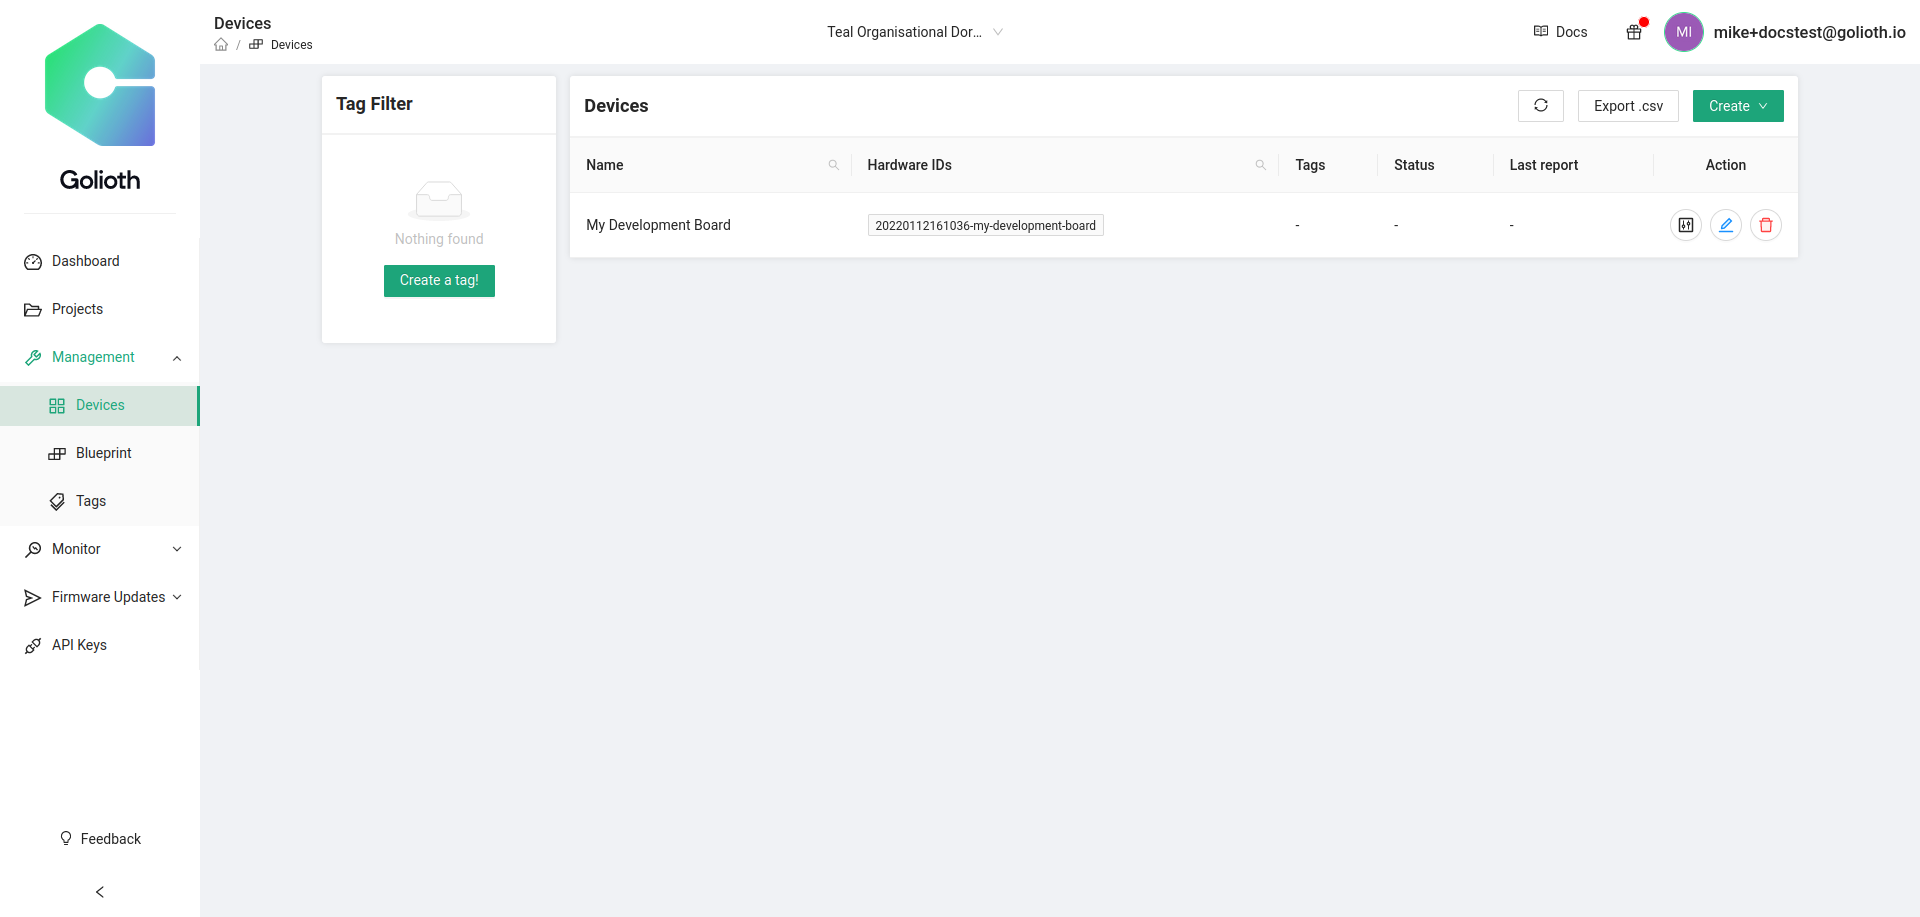
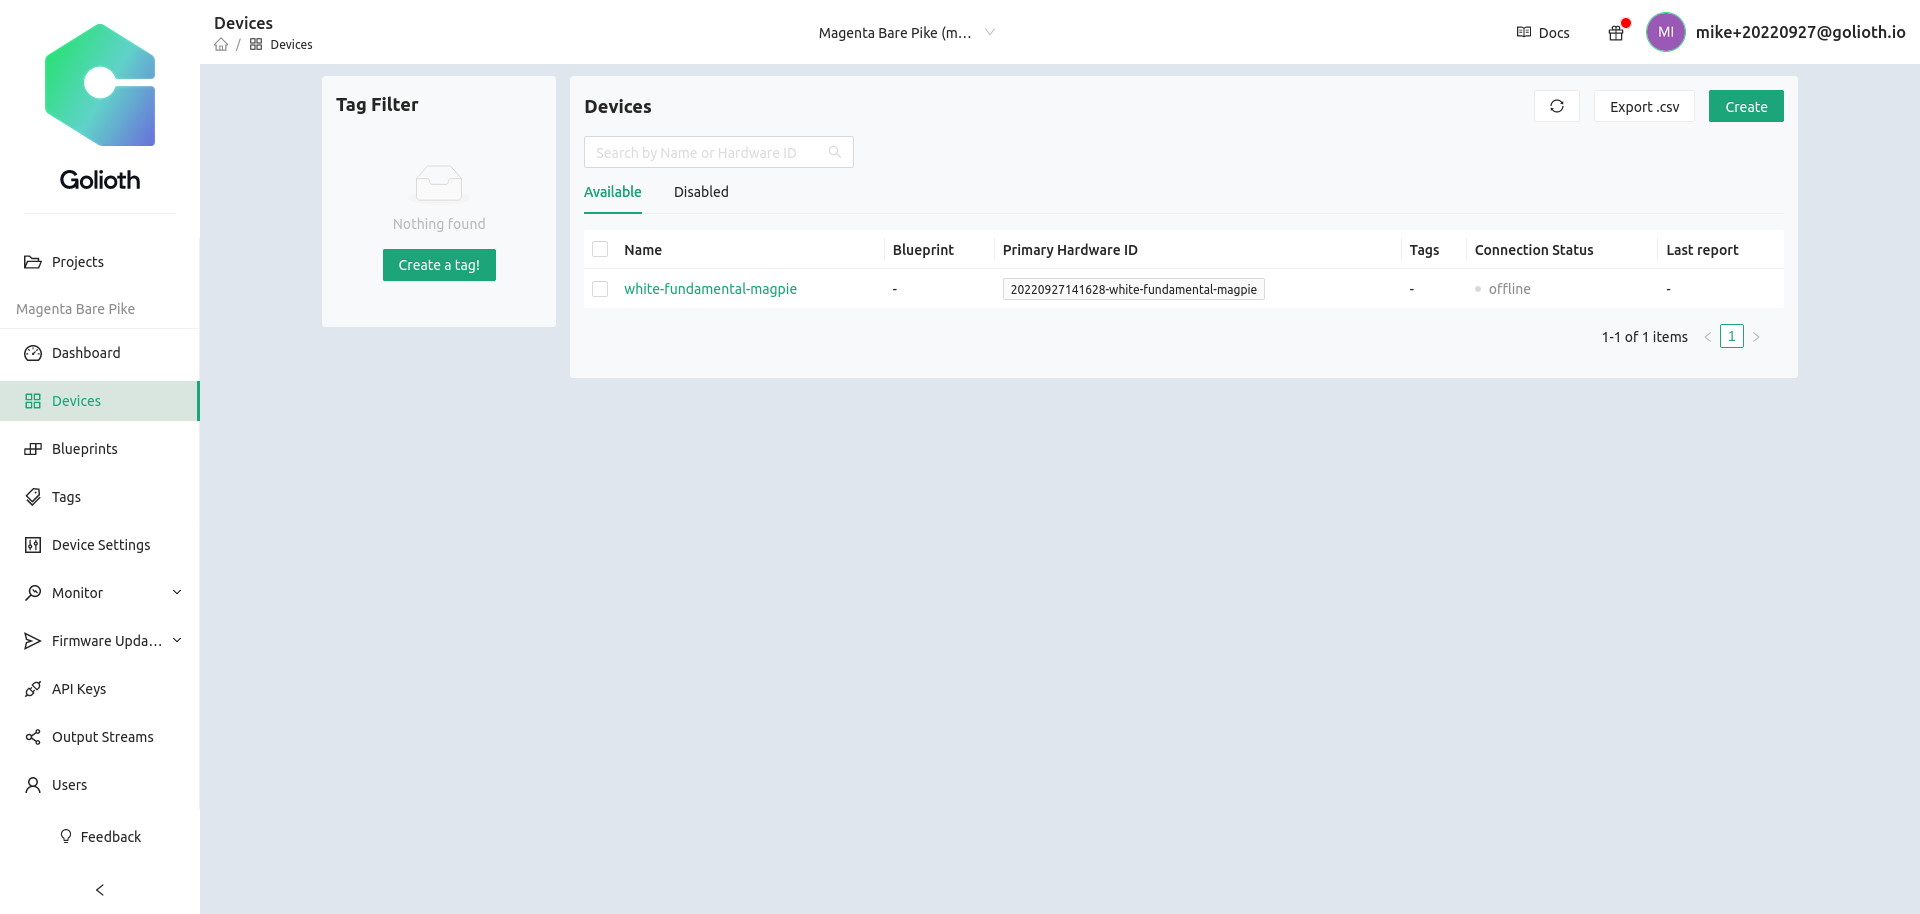
gettings-started: overhaul device creation page
* Update images to match current console
* Credentials are now created as part of this step

diff --git a/docs/getting-started/2-console/3-manage-devices.md b/docs/getting-started/2-console/3-manage-devices.md
@@ -8,20 +8,35 @@ Let's use the Golioth Console to create a new device.
 
 ![Golioth Console device view](../assets/gettingstarted-console-devices.png)
 
-In the center at the top of the console widow the currently selected project is shown. On the left sidebar we can use the Management&rarr;Devices option to list this project's devices. Here we see the device that was created by the quickstart wizard.
+In the center at the top of the console widow the currently selected project is shown. On the left sidebar we can use the Devices option to list this project's devices. Here we see the device that was created by the quickstart wizard.
 
-* Click the Create button in the upper right to create a new device.
+## Create a new device
 
-    ![Dialog for creating new devices](../assets/gettingstarted-console-createdevice.png)
+Click the Create button in the upper right to create a new device.
 
-* Enter a Name and click save to create the device.
+![Dialog for creating new devices](../assets/gettingstarted-console-createdevice.png)
 
-:::note
+### 1. Device name
+
+Enter a name for your device
+
+### 2. Tags, Blueprints, and hardware ID
+
 There are three optional values that we are not setting for this example
 
 * **Tags:** Group different types of devices together with your project
 * **Blueprints:** A designator used to identify device types for Over-the-Air updates (OTA)
 * **Hardware ID:** A unique hardware ID that you can choose to set to meet your project's needs (MAC address, serial number, etc.)
-:::
 
-Before your newly created device can communicate with the Golioth Cloud it will need to be assigned credentials using the device authorization process.
+### 3. Generate Credentials
+
+By default, and PSK-ID and PSK will be automatically generated for this device. If you wish to set these manually, you may choose that option from the dropdown menu.
+
+## New device summary
+
+After clicking save, your device is created and a new device summary is displayed.
+
+![New device summary window](../assets/gettingstarted-console-createdevice-confirmation.png)
+
+Click the Go to Device Management button and continue to the next page of this
+guide.
